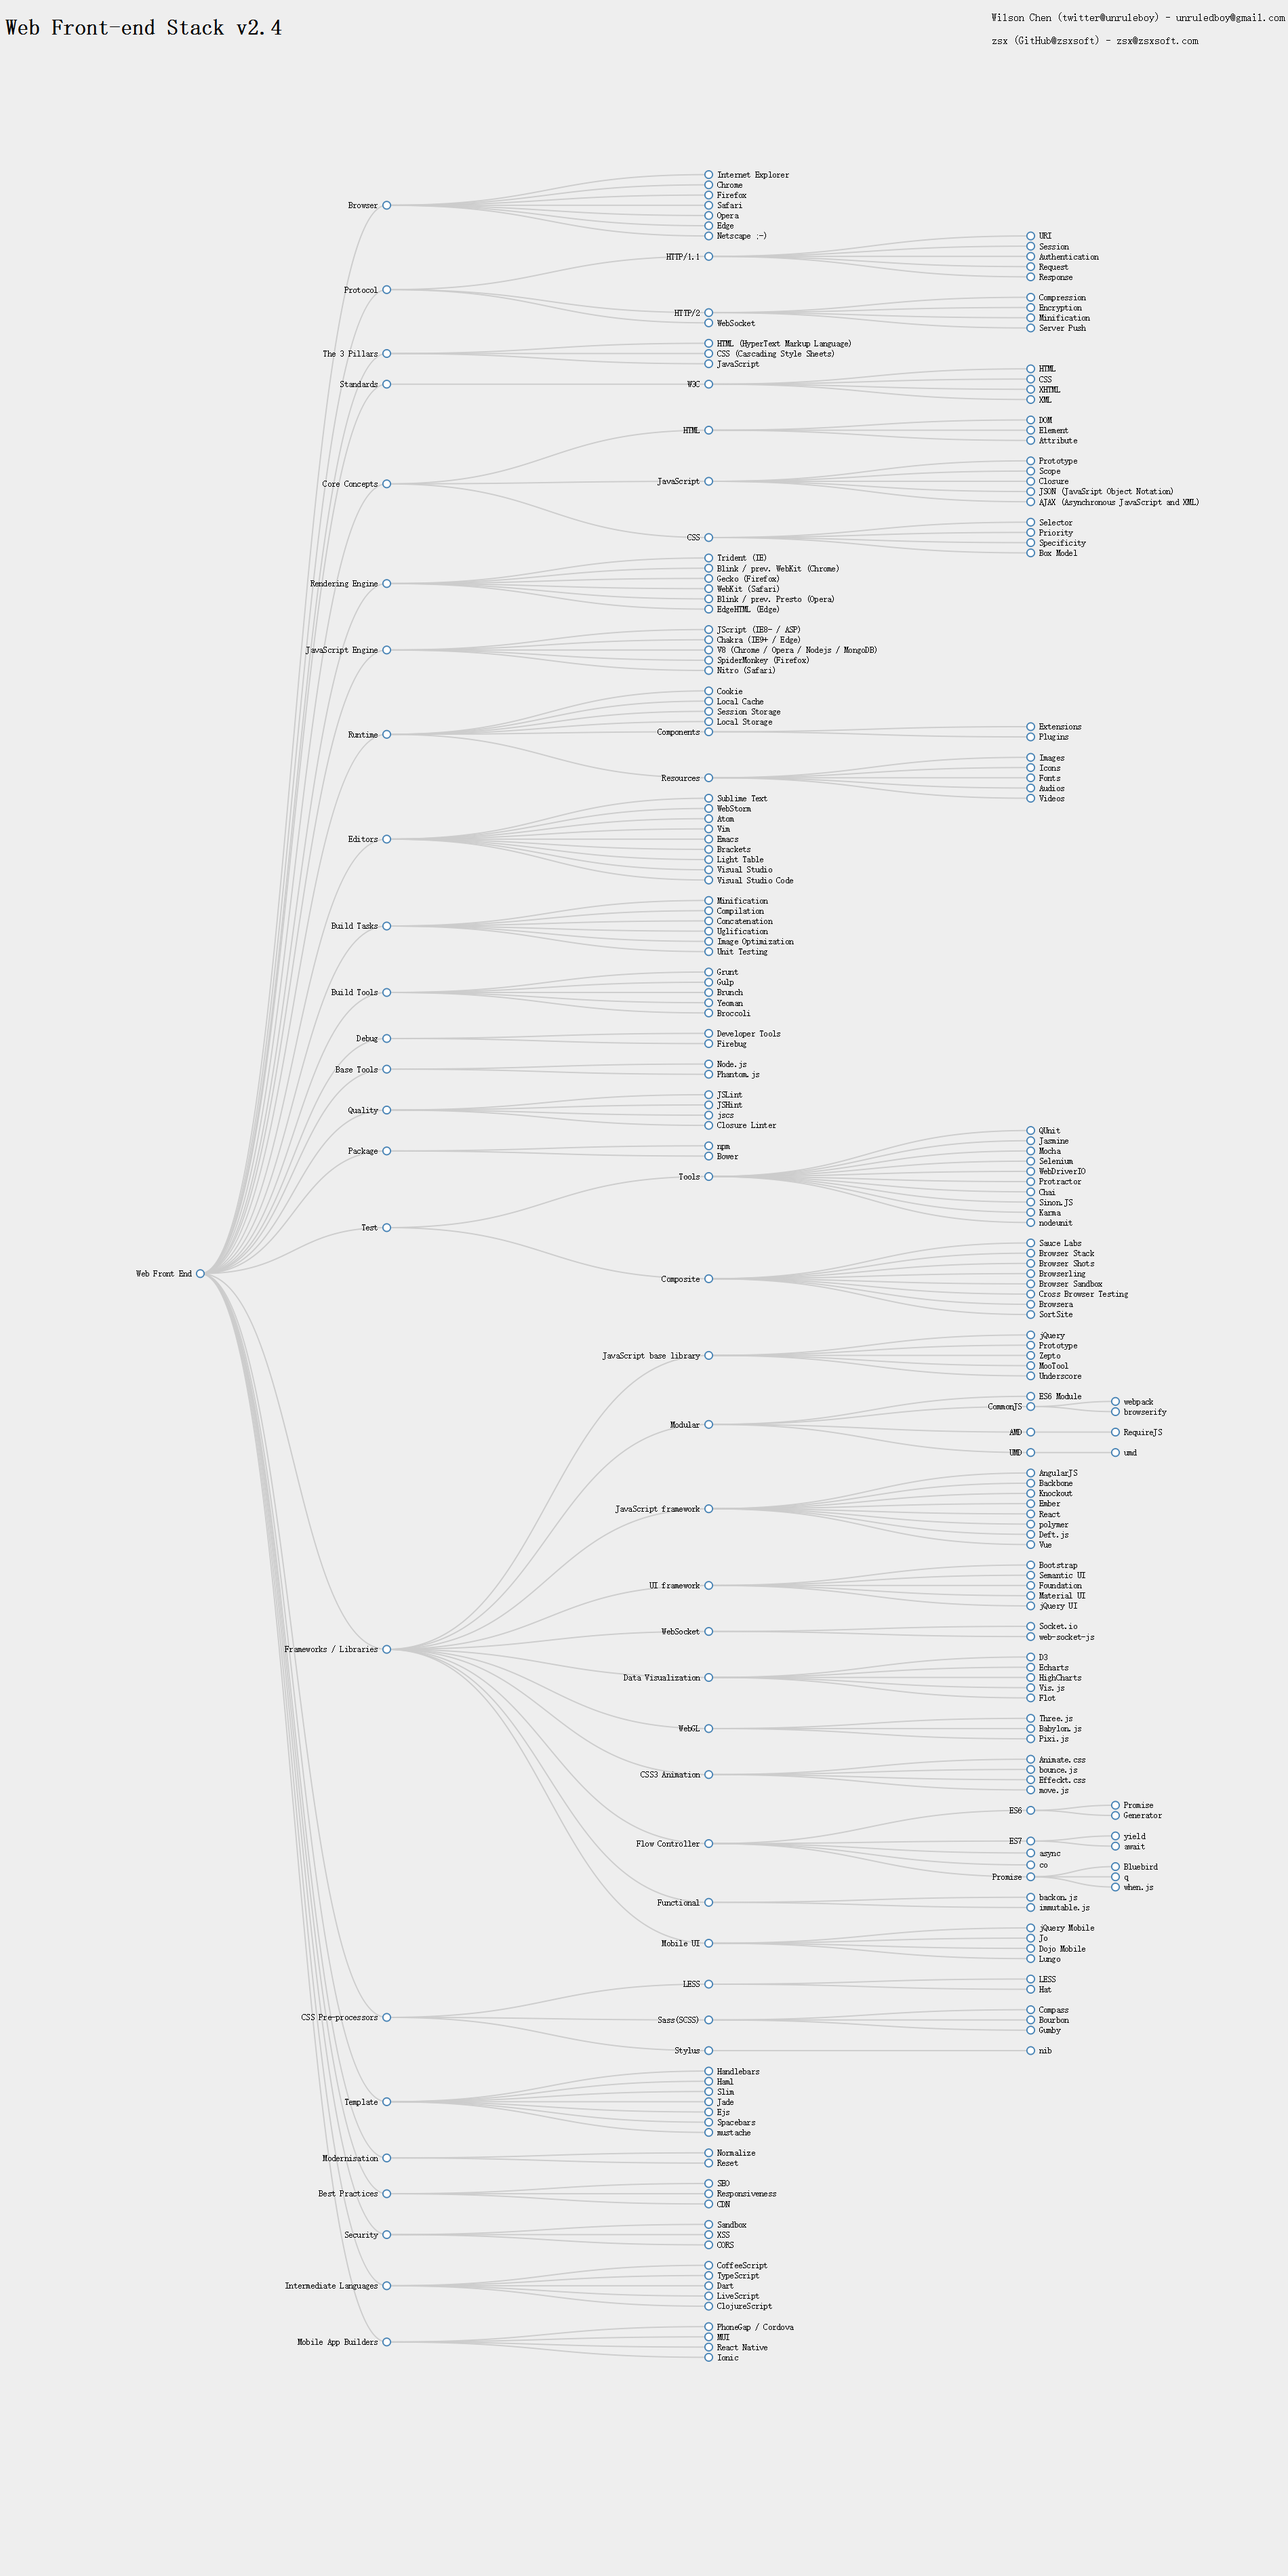
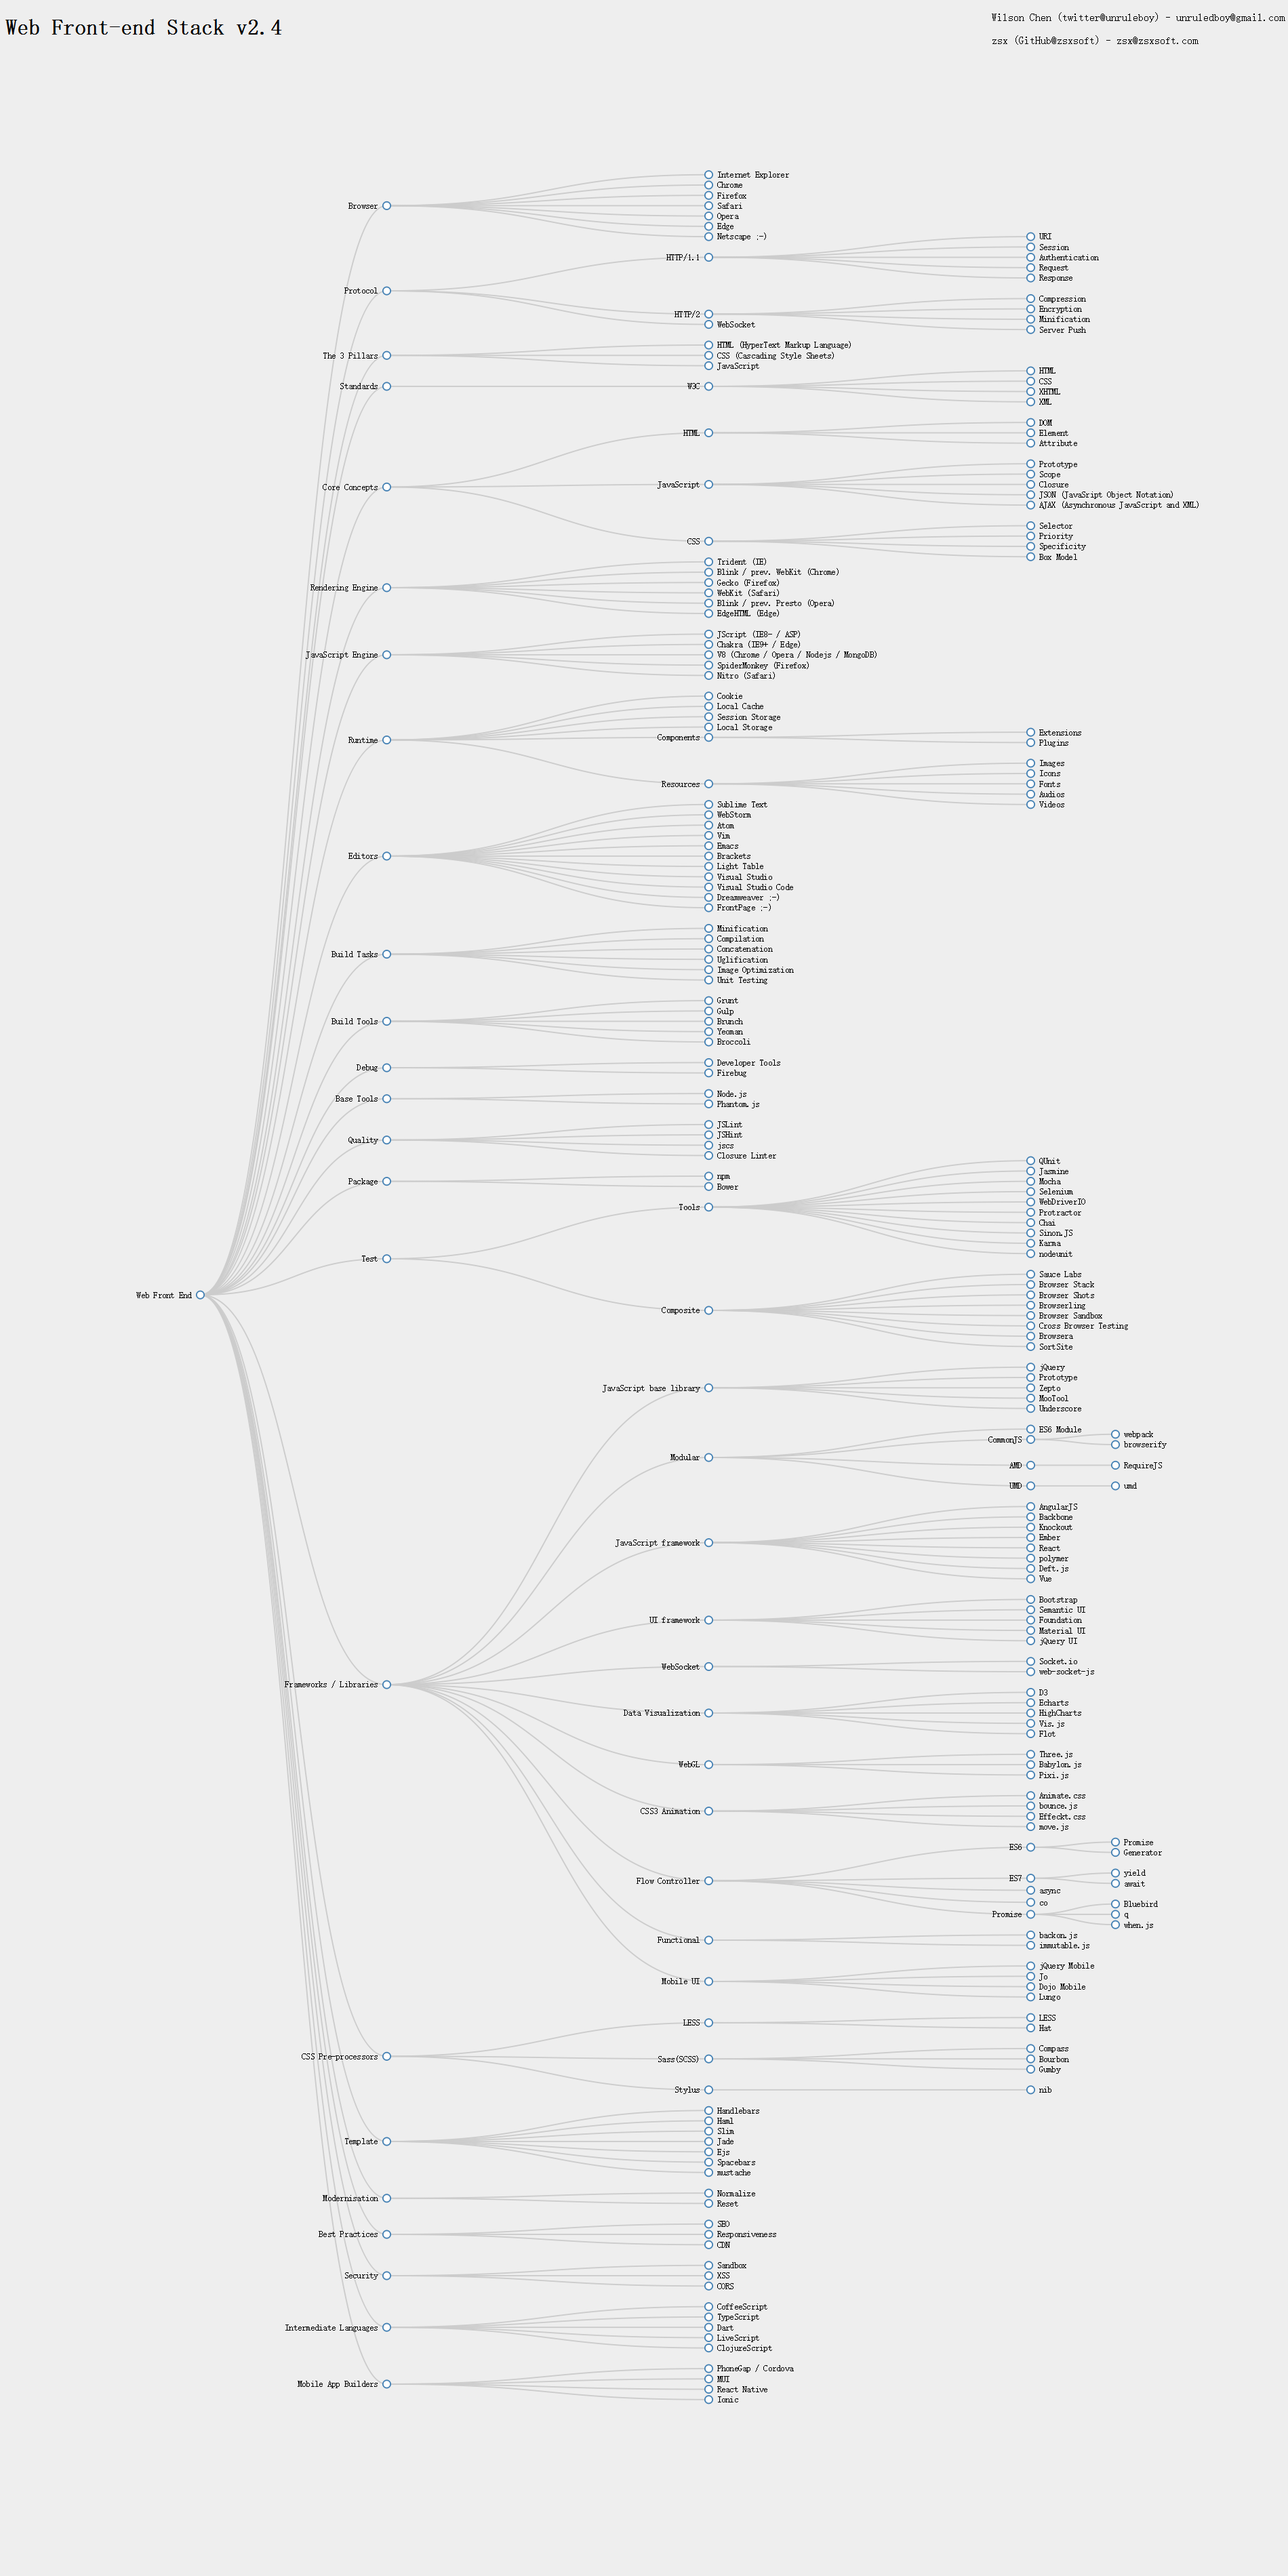
improved Chinese version

diff --git a/README.zh-cn.md b/README.zh-cn.md
@@ -85,16 +85,16 @@ https://rawgit.com/unruledboy/WebFrontEndStack/master/ux/WebFrontEndStack.htm?lo
 		- [Netscape ;-)](https://en.wikipedia.org/wiki/Netscape)
 	- 协议
 		- [HTTP/1.1](https://www.ietf.org/rfc/rfc2616.txt)
-			- URI
-			- Session
-			- Authentication
-			- Request
-			- Response
+			- 链接
+			- 会话
+			- 授权
+			- 请求
+			- 响应
 		- [HTTP/2](https://en.wikipedia.org/wiki/HTTP/2)
-			- Compression
-			- Encryption
-			- Minification
-			- Server Push
+			- 压缩
+			- 加密
+			- 缩小
+			- 服务器端推送
 		- WebSocket
 	- 三大支柱
 		- HTML (HyperText Markup Language)
@@ -159,13 +159,15 @@ https://rawgit.com/unruledboy/WebFrontEndStack/master/ux/WebFrontEndStack.htm?lo
 		- [Light Table](http://lighttable.com/) [[GitHub]](https://github.com/LightTable/LightTable/)
 		- [Visual Studio](https://www.visualstudio.com/)
 		- [Visual Studio Code](https://code.visualstudio.com/)
+		- Dreamweaver ;-)
+		- FrontPage ;-)
 	- 编译任务
-		- Minification
-		- Compilation
-		- Concatenation
-		- Uglification
-		- Image Optimization
-		- Unit Testing
+		- 缩小
+		- 编译
+		- 拼接
+		- 混淆
+		- 图像优化
+		- 单元测试
 	- 编译工具
 		- [Grunt](http://www.gruntjs.com/) [[GitHub]](https://github.com/cowboy/jquery-tiny-pubsub/)
 		- [Gulp](http://gulpjs.com/) [[GitHub]](https://github.com/gulpjs/gulp/)
@@ -173,7 +175,7 @@ https://rawgit.com/unruledboy/WebFrontEndStack/master/ux/WebFrontEndStack.htm?lo
 		- [Yeoman](http://yeoman.io/)
 		- Broccoli [[GitHub]](https://github.com/broccolijs/broccoli/)
 	- 调试
-		- [Developer Tools](https://developer.chrome.com/devtools)
+		- [开发者工具](https://developer.chrome.com/devtools)
 		- [Firebug](http://getfirebug.com/) [[GitHub]](https://github.com/firebug/firebug/)
 	- 基础工具
 		- [Node.js](https://nodejs.org/) [[GitHub]](https://github.com/joyent/node/)

diff --git a/README.md b/README.md
@@ -152,6 +152,8 @@ https://rawgit.com/unruledboy/WebFrontEndStack/master/ux/WebFrontEndStack.htm
 		- [Light Table](http://lighttable.com/) [[GitHub]](https://github.com/LightTable/LightTable/)
 		- [Visual Studio](https://www.visualstudio.com/)
 		- [Visual Studio Code](https://code.visualstudio.com/)
+		- Dreamweaver ;-)
+		- FrontPage ;-)
 	- Build Tasks
 		- Minification
 		- Compilation
